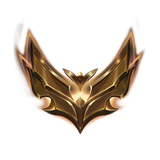
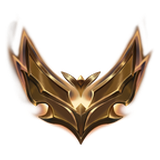
fix: 롤 티어 엠블럼을 키우고 투명 여백을 잘라 크게 보이게
- assets/tiers/*.png: 바운딩 박스 기준으로 투명 여백 제거, 사방 3% 여유만 남기고
  가로 기준으로 통일해 정사각 캔버스 정중앙에 배치 (투구·날개 끝 유지)
- 상단 닉네임 알약 24→30px(알약 높이 34px로 자연스럽게), 랭킹·게시판 24→32px,
  내 베팅 모달 28→36px
- .tier-badge/.tier-emblem 세로 중앙 정렬(align/justify center, vertical-align middle)
- betting.css?v=20261124-tier4 로 캐시 갱신

diff --git a/betting.css b/betting.css
@@ -31,10 +31,10 @@
   .bet-nav span{font-size:11px;white-space:nowrap;margin-left:0}
 }
 .bet-nav{background:transparent;border:0;border-radius:0;padding:0;margin:10px 2px 0;gap:14px;align-items:center}
-.bet-nav #betBalance{background:#eef7f2;color:var(--accent);font-weight:800;font-size:11.5px;padding:5px 10px;border-radius:999px;order:-1;max-width:170px;overflow:hidden;text-overflow:ellipsis;border:0;cursor:pointer;font-family:inherit;line-height:1.4;white-space:nowrap}
+.bet-nav #betBalance{background:#eef7f2;color:var(--accent);font-weight:800;font-size:11.5px;padding:2px 11px 2px 7px;border-radius:999px;order:-1;max-width:200px;overflow:hidden;text-overflow:ellipsis;border:0;cursor:pointer;font-family:inherit;line-height:1.4;white-space:nowrap}
 .bet-nav a,.bet-nav button{background:transparent;padding:2px 0;border-radius:0;font-size:12px;font-weight:600;color:var(--text-2)}
 .bet-nav a:hover,.bet-nav button:hover{color:var(--text)}
-@media(max-width:600px){.bet-nav{gap:11px;margin:8px 2px 0;padding:0}.bet-nav a,.bet-nav button{font-size:11.5px;padding:2px 0}.bet-nav #betBalance{font-size:11px;padding:4px 9px;max-width:140px}}
+@media(max-width:600px){.bet-nav{gap:11px;margin:8px 2px 0;padding:0}.bet-nav a,.bet-nav button{font-size:11.5px;padding:2px 0}.bet-nav #betBalance{font-size:11px;padding:2px 9px 2px 6px;max-width:168px}}
 .bet-dock-head{display:flex;grid-template-columns:none;align-items:center;gap:8px}
 .bet-dock-head #betDockTitle{order:1}
 .bet-dock-head #betAuthState{order:2;min-width:0;overflow:hidden;text-overflow:ellipsis;white-space:nowrap}
@@ -159,16 +159,16 @@
 .comment-box button:hover{background:var(--accent);color:#fff}
 
 /* ── 롤(LoL) 티어 배지 — tiers.js 가 만든 .tier-badge .t-<key> ────── */
-.tier-badge{display:inline-flex;align-items:center;gap:4px;font-size:9.5px;font-weight:800;letter-spacing:-.01em;line-height:1.45;padding:1px 6px;border-radius:5px;border:1px solid transparent;white-space:nowrap;flex:0 0 auto;vertical-align:middle}
+.tier-badge{display:inline-flex;align-items:center;justify-content:center;gap:4px;font-size:9.5px;font-weight:800;letter-spacing:-.01em;line-height:1.45;padding:1px 6px;border-radius:5px;border:1px solid transparent;white-space:nowrap;flex:0 0 auto;vertical-align:middle}
 .tier-dot{width:5px;height:5px;border-radius:50%;background:currentColor;flex:0 0 auto}
 /* 롤 공식 티어 엠블럼 — tiers.js 가 넣는 assets/tiers/<key>.png */
-.tier-emblem{width:22px;height:22px;flex:0 0 auto;display:block;object-fit:contain;object-position:center;user-select:none;-webkit-user-drag:none}
+.tier-emblem{width:26px;height:26px;flex:0 0 auto;display:block;object-fit:contain;object-position:center;vertical-align:middle;user-select:none;-webkit-user-drag:none}
 .tier-badge.has-mark{gap:4px;padding:1px 6px 1px 2px;line-height:1.25}
 /* 엠블럼만 두는 자리(상단 닉네임 알약): 색 배경 없이 그림만 */
 .tier-badge.icon-only{padding:0;border:0;background:none;box-shadow:none;gap:0;line-height:0;overflow:visible}
-.tier-badge.icon-only .tier-emblem{width:24px;height:24px}
-.tier-badge.lg .tier-emblem{width:28px;height:28px}
-.tier-badge.lg.has-mark{gap:5px;padding:1px 8px 1px 3px}
+.tier-badge.icon-only .tier-emblem{width:30px;height:30px}
+.tier-badge.lg .tier-emblem{width:36px;height:36px}
+.tier-badge.lg.has-mark{gap:6px;padding:0 9px 0 3px}
 .t-iron{color:#4B5563;background:#EEF1F4;border-color:rgba(75,85,99,.20)}
 .t-bronze{color:#96552A;background:#F8EEE2;border-color:rgba(150,85,42,.22)}
 .t-silver{color:#67757F;background:#EDF1F4;border-color:rgba(103,117,127,.22)}
@@ -181,13 +181,13 @@
 .t-challenger{color:#0E7490;background:#DEF3F8;border-color:rgba(14,116,144,.26)}
 
 /* 티어 색이 어두운 배지 위에서도 읽히게 — 오른쪽 항목과 같은 줄 높이 유지 */
-.rank-card-h .tier-badge,.rk-sub .tier-badge{vertical-align:1px}
+.rank-card-h .tier-badge,.rk-sub .tier-badge{vertical-align:middle}
 
 /* 랭킹: 닉네임 + 티어 배지 한 줄 */
 .rk-nmline{display:flex;align-items:center;gap:6px;min-width:0}
 .rk-nmline .rk-name{min-width:0}
-.rk-nmline .tier-badge .tier-emblem{width:24px;height:24px}
-.rk-nmline .tier-badge.has-mark{padding:0 5px 0 1px;gap:3px}
+.rk-nmline .tier-badge .tier-emblem{width:32px;height:32px}
+.rk-nmline .tier-badge.has-mark{padding:0 6px 0 2px;gap:4px}
 
 /* 상단 닉네임 알약: [티어] 닉네임 · 포인트 */
 .bet-nav #betBalance{display:inline-flex;align-items:center;max-width:250px;gap:7px}
@@ -195,8 +195,8 @@
 .bet-pill-txt{overflow:hidden;text-overflow:ellipsis;white-space:nowrap;min-width:0}
 #betBalance .tier-badge{box-shadow:none}
 #betBalance .tier-badge.icon-only{box-shadow:none}
-#betBalance .tier-badge.icon-only .tier-emblem{width:24px;height:24px;filter:drop-shadow(0 1px 1px rgba(11,18,32,.28))}
-.bets-me .tier-badge.lg{padding:1px 8px 1px 3px;font-size:10.5px}
+#betBalance .tier-badge.icon-only .tier-emblem{width:30px;height:30px;filter:drop-shadow(0 1px 1px rgba(11,18,32,.28))}
+.bets-me .tier-badge.lg{padding:0 9px 0 3px;font-size:10.5px}
 
 /* 내 베팅 내역 모달: 닉네임 옆 티어 + 다음 티어 안내 */
 .bets-me{flex-wrap:wrap}
@@ -204,6 +204,6 @@
 .bets-next{flex:1 1 100%;font-style:normal;font-size:10.5px;font-weight:700;color:var(--text-3);letter-spacing:-.01em}
 
 /* 자유게시판 글쓴이 옆 티어 배지 */
-.board-post small .tier-badge{margin:0 4px;vertical-align:-1px}
-.board-post small .tier-badge .tier-emblem{width:24px;height:24px}
-.board-post small .tier-badge.has-mark{padding:0 5px 0 1px;gap:3px;font-size:10px}
+.board-post small .tier-badge{margin:0 5px;vertical-align:middle}
+.board-post small .tier-badge .tier-emblem{width:32px;height:32px}
+.board-post small .tier-badge.has-mark{padding:0 6px 0 2px;gap:4px;font-size:10px}

diff --git a/board.html b/board.html
@@ -10,7 +10,7 @@
 <link rel="icon" type="image/png" sizes="512x512" href="icon.png?v=20261122-vs2">
 <link rel="stylesheet" href="https://cdn.jsdelivr.net/gh/orioncactus/pretendard@v1.3.9/dist/web/variable/pretendardvariable-dynamic-subset.min.css">
 <link rel="stylesheet" href="styles.css?v=20261124-ui4">
-<link rel="stylesheet" href="betting.css?v=20261124-tier3">
+<link rel="stylesheet" href="betting.css?v=20261124-tier4">
 </head>
 <body>
 <div class="page-shell board-page">

diff --git a/ranking.html b/ranking.html
@@ -10,7 +10,7 @@
 <link rel="icon" type="image/png" sizes="512x512" href="icon.png?v=20261122-vs2">
 <link rel="stylesheet" href="https://cdn.jsdelivr.net/gh/orioncactus/pretendard@v1.3.9/dist/web/variable/pretendardvariable-dynamic-subset.min.css">
 <link rel="stylesheet" href="styles.css?v=20261124-ui4">
-<link rel="stylesheet" href="betting.css?v=20261124-tier3">
+<link rel="stylesheet" href="betting.css?v=20261124-tier4">
 </head>
 <body>
 <div class="page-shell rank-page">

diff --git a/index.html b/index.html
@@ -18,7 +18,7 @@
 <link rel="apple-touch-icon" sizes="180x180" href="apple-touch-icon.png?v=20261122-vs2">
 <meta property="og:image" content="https://dino02232-boop.github.io/clutch/icon.png">
 <link rel="stylesheet" href="styles.css?v=20261124-ui4">
-<link rel="stylesheet" href="betting.css?v=20261124-tier3">
+<link rel="stylesheet" href="betting.css?v=20261124-tier4">
 </head>
 <body>
 <div class="wrap">
